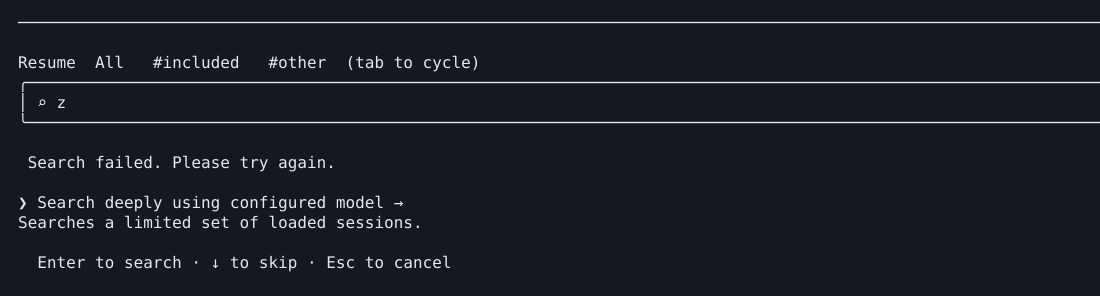
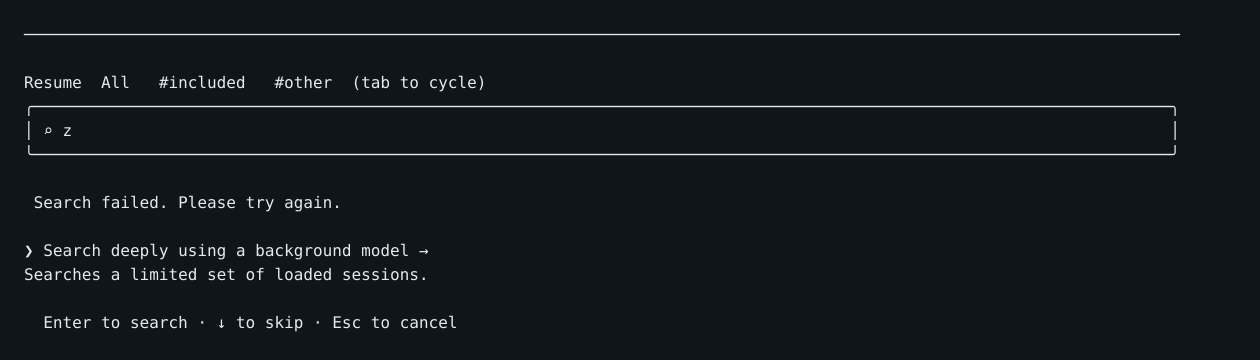
fix: describe the background search model accurately

diff --git a/src/components/LogSelector.tsx b/src/components/LogSelector.tsx
@@ -1399,7 +1399,7 @@ export function LogSelector(t0: LogSelectorProps) {
   }
   let t69;
   if ($[197] !== agenticSearchState.status || $[198] !== isAgenticSearchOptionFocused || $[199] !== onAgenticSearch || $[200] !== searchQuery) {
-    t69 = Boolean(searchQuery.trim()) && onAgenticSearch && isAgenticSearchEnabled && agenticSearchState.status !== "searching" && agenticSearchState.status !== "results" && <Box flexShrink={0} flexDirection="column"><Box flexDirection="row" gap={1}><Text color={isAgenticSearchOptionFocused ? "suggestion" : undefined}>{isAgenticSearchOptionFocused ? figures.pointer : " "}</Text><Text color={isAgenticSearchOptionFocused ? "suggestion" : undefined} bold={isAgenticSearchOptionFocused}>Search deeply using configured model →</Text></Box><Text dimColor>Searches a limited set of loaded sessions.</Text><Box height={1} /></Box>;
+    t69 = Boolean(searchQuery.trim()) && onAgenticSearch && isAgenticSearchEnabled && agenticSearchState.status !== "searching" && agenticSearchState.status !== "results" && <Box flexShrink={0} flexDirection="column"><Box flexDirection="row" gap={1}><Text color={isAgenticSearchOptionFocused ? "suggestion" : undefined}>{isAgenticSearchOptionFocused ? figures.pointer : " "}</Text><Text color={isAgenticSearchOptionFocused ? "suggestion" : undefined} bold={isAgenticSearchOptionFocused}>Search deeply using a background model →</Text></Box><Text dimColor>Searches a limited set of loaded sessions.</Text><Box height={1} /></Box>;
     $[197] = agenticSearchState.status;
     $[198] = isAgenticSearchOptionFocused;
     $[199] = onAgenticSearch;
@@ -1465,7 +1465,7 @@ export function LogSelector(t0: LogSelectorProps) {
   }
   let t71;
   if ($[222] !== agenticSearchState.status || $[223] !== currentBranch || $[224] !== exitState.keyName || $[225] !== exitState.pending || $[226] !== getExpandCollapseHint || $[227] !== hasMultipleWorktrees || $[228] !== isAgenticSearchOptionFocused || $[229] !== isSearching || $[230] !== onToggleAllProjects || $[231] !== showAllProjects || $[232] !== showAllWorktrees || $[233] !== viewMode) {
-    t71 = <Box paddingLeft={2}>{exitState.pending ? <Text dimColor={true}>Press {exitState.keyName} again to exit</Text> : viewMode === "rename" ? <Text dimColor={true}><Byline><KeyboardShortcutHint shortcut="Enter" action="save" /><ConfigurableShortcutHint action="confirm:no" context="Confirmation" fallback="Esc" description="cancel" /></Byline></Text> : agenticSearchState.status === "searching" ? <Text dimColor={true}><Byline><Text>Searching with configured model…</Text><ConfigurableShortcutHint action="confirm:no" context="Confirmation" fallback="Esc" description="cancel" /></Byline></Text> : isAgenticSearchOptionFocused ? <Text dimColor={true}><Byline><KeyboardShortcutHint shortcut="Enter" action="search" /><KeyboardShortcutHint shortcut={"\u2193"} action="skip" /><ConfigurableShortcutHint action="confirm:no" context="Confirmation" fallback="Esc" description="cancel" /></Byline></Text> : viewMode === "search" ? <Text dimColor={true}><Byline><Text>{isSearching && false ? "Searching\u2026" : "Type to Search"}</Text><KeyboardShortcutHint shortcut="Enter" action="select" /><ConfigurableShortcutHint action="confirm:no" context="Confirmation" fallback="Esc" description="clear" /></Byline></Text> : <Text dimColor={true}><Byline>{onToggleAllProjects && <KeyboardShortcutHint shortcut="Ctrl+A" action={`show ${showAllProjects ? "current dir" : "all projects"}`} />}{currentBranch && <KeyboardShortcutHint shortcut="Ctrl+B" action="toggle branch" />}{hasMultipleWorktrees && <KeyboardShortcutHint shortcut="Ctrl+W" action={`show ${showAllWorktrees ? "current worktree" : "all worktrees"}`} />}<KeyboardShortcutHint shortcut="Ctrl+V" action="preview" /><KeyboardShortcutHint shortcut="Ctrl+R" action="rename" /><Text>Type to search</Text><ConfigurableShortcutHint action="confirm:no" context="Confirmation" fallback="Esc" description="cancel" />{getExpandCollapseHint() && <Text>{getExpandCollapseHint()}</Text>}</Byline></Text>}</Box>;
+    t71 = <Box paddingLeft={2}>{exitState.pending ? <Text dimColor={true}>Press {exitState.keyName} again to exit</Text> : viewMode === "rename" ? <Text dimColor={true}><Byline><KeyboardShortcutHint shortcut="Enter" action="save" /><ConfigurableShortcutHint action="confirm:no" context="Confirmation" fallback="Esc" description="cancel" /></Byline></Text> : agenticSearchState.status === "searching" ? <Text dimColor={true}><Byline><Text>Searching with a background model…</Text><ConfigurableShortcutHint action="confirm:no" context="Confirmation" fallback="Esc" description="cancel" /></Byline></Text> : isAgenticSearchOptionFocused ? <Text dimColor={true}><Byline><KeyboardShortcutHint shortcut="Enter" action="search" /><KeyboardShortcutHint shortcut={"\u2193"} action="skip" /><ConfigurableShortcutHint action="confirm:no" context="Confirmation" fallback="Esc" description="cancel" /></Byline></Text> : viewMode === "search" ? <Text dimColor={true}><Byline><Text>{isSearching && false ? "Searching\u2026" : "Type to Search"}</Text><KeyboardShortcutHint shortcut="Enter" action="select" /><ConfigurableShortcutHint action="confirm:no" context="Confirmation" fallback="Esc" description="clear" /></Byline></Text> : <Text dimColor={true}><Byline>{onToggleAllProjects && <KeyboardShortcutHint shortcut="Ctrl+A" action={`show ${showAllProjects ? "current dir" : "all projects"}`} />}{currentBranch && <KeyboardShortcutHint shortcut="Ctrl+B" action="toggle branch" />}{hasMultipleWorktrees && <KeyboardShortcutHint shortcut="Ctrl+W" action={`show ${showAllWorktrees ? "current worktree" : "all worktrees"}`} />}<KeyboardShortcutHint shortcut="Ctrl+V" action="preview" /><KeyboardShortcutHint shortcut="Ctrl+R" action="rename" /><Text>Type to search</Text><ConfigurableShortcutHint action="confirm:no" context="Confirmation" fallback="Esc" description="cancel" />{getExpandCollapseHint() && <Text>{getExpandCollapseHint()}</Text>}</Byline></Text>}</Box>;
     $[222] = agenticSearchState.status;
     $[223] = currentBranch;
     $[224] = exitState.keyName;

diff --git a/src/components/LogSelector.resumeBranches.test.ts b/src/components/LogSelector.resumeBranches.test.ts
@@ -482,9 +482,9 @@ test('deep search is offered only with a callback and runs from the keyboard', a
     await waitForFrame(getOutput, frame => frame.includes('Original history') && !frame.includes('Excluded history'))
     stdin.write('Original')
     const noCallback = await waitForFrame(getOutput, frame => frame.includes('⌕ Original'))
-    expect(noCallback).not.toContain('Search deeply using configured model')
+    expect(noCallback).not.toContain('Search deeply using a background model')
     renderPicker(true)
-    await waitForFrame(getOutput, frame => frame.includes('Search deeply using configured model'))
+    await waitForFrame(getOutput, frame => frame.includes('Search deeply using a background model'))
     stdin.write('\r')
     await waitForFrame(getOutput, frame => frame.includes('Type to search'))
     stdin.write('\r')
@@ -494,16 +494,16 @@ test('deep search is offered only with a callback and runs from the keyboard', a
     stdin.write('z')
     await waitForFrame(getOutput, frame => frame.includes('⌕ z'))
     stdin.write('\x1B[B')
-    await waitForFrame(getOutput, frame => frame.includes('❯ Search deeply using configured model'))
+    await waitForFrame(getOutput, frame => frame.includes('❯ Search deeply using a background model'))
     stdin.write('\r')
-    await waitForFrame(getOutput, frame => frame.includes('Searching with configured model'))
+    await waitForFrame(getOutput, frame => frame.includes('Searching with a background model'))
     failSearch(new Error('private failure details'))
     const failedFrame = await waitForFrame(getOutput, frame => frame.includes('Search failed. Please try again.'))
     expect(failedFrame).not.toContain('private failure details')
     expect(failedFrame).not.toContain('No matching sessions found.')
-    expect(failedFrame).toContain('Search deeply using configured model')
+    expect(failedFrame).toContain('Search deeply using a background model')
     stdin.write('\r')
-    await waitForFrame(getOutput, frame => frame.includes('Searching with configured model'))
+    await waitForFrame(getOutput, frame => frame.includes('Searching with a background model'))
     expect(pageRequests).toBeGreaterThan(0)
     await deliverPage(63)
     expect(searchSignal?.aborted).toBe(false)

diff --git a/src/utils/agenticSessionSearch.ts b/src/utils/agenticSessionSearch.ts
@@ -135,7 +135,7 @@ function logContainsQuery(log: LogOption, queryLower: string): boolean {
 }
 
 /**
- * Performs an agentic search using the configured model to find relevant sessions
+ * Performs an agentic search using the background search model to find relevant sessions
  * based on semantic understanding of the query.
  */
 export async function agenticSessionSearch(

diff --git a/README.md b/README.md
@@ -224,8 +224,8 @@ the transcript and its sidecar files from disk and cannot be undone. The
 session you are currently in is not listed and cannot be deleted.
 
 In `/resume`, type a search query, then press Down and Enter on **Search deeply
-using configured model** to search conversation contents with the configured model. This
-explicit action can make a model request; ordinary filtering stays local. Deep
+using a background model** to search conversation contents with the background search model,
+which can differ from the active chat model. This explicit action can make a model request; ordinary filtering stays local. Deep
 search considers up to 100 loaded sessions within the active filters, so older
 history may not be included. Results remain available as more history loads;
 changing the query or active filters clears the previous search. If a search
